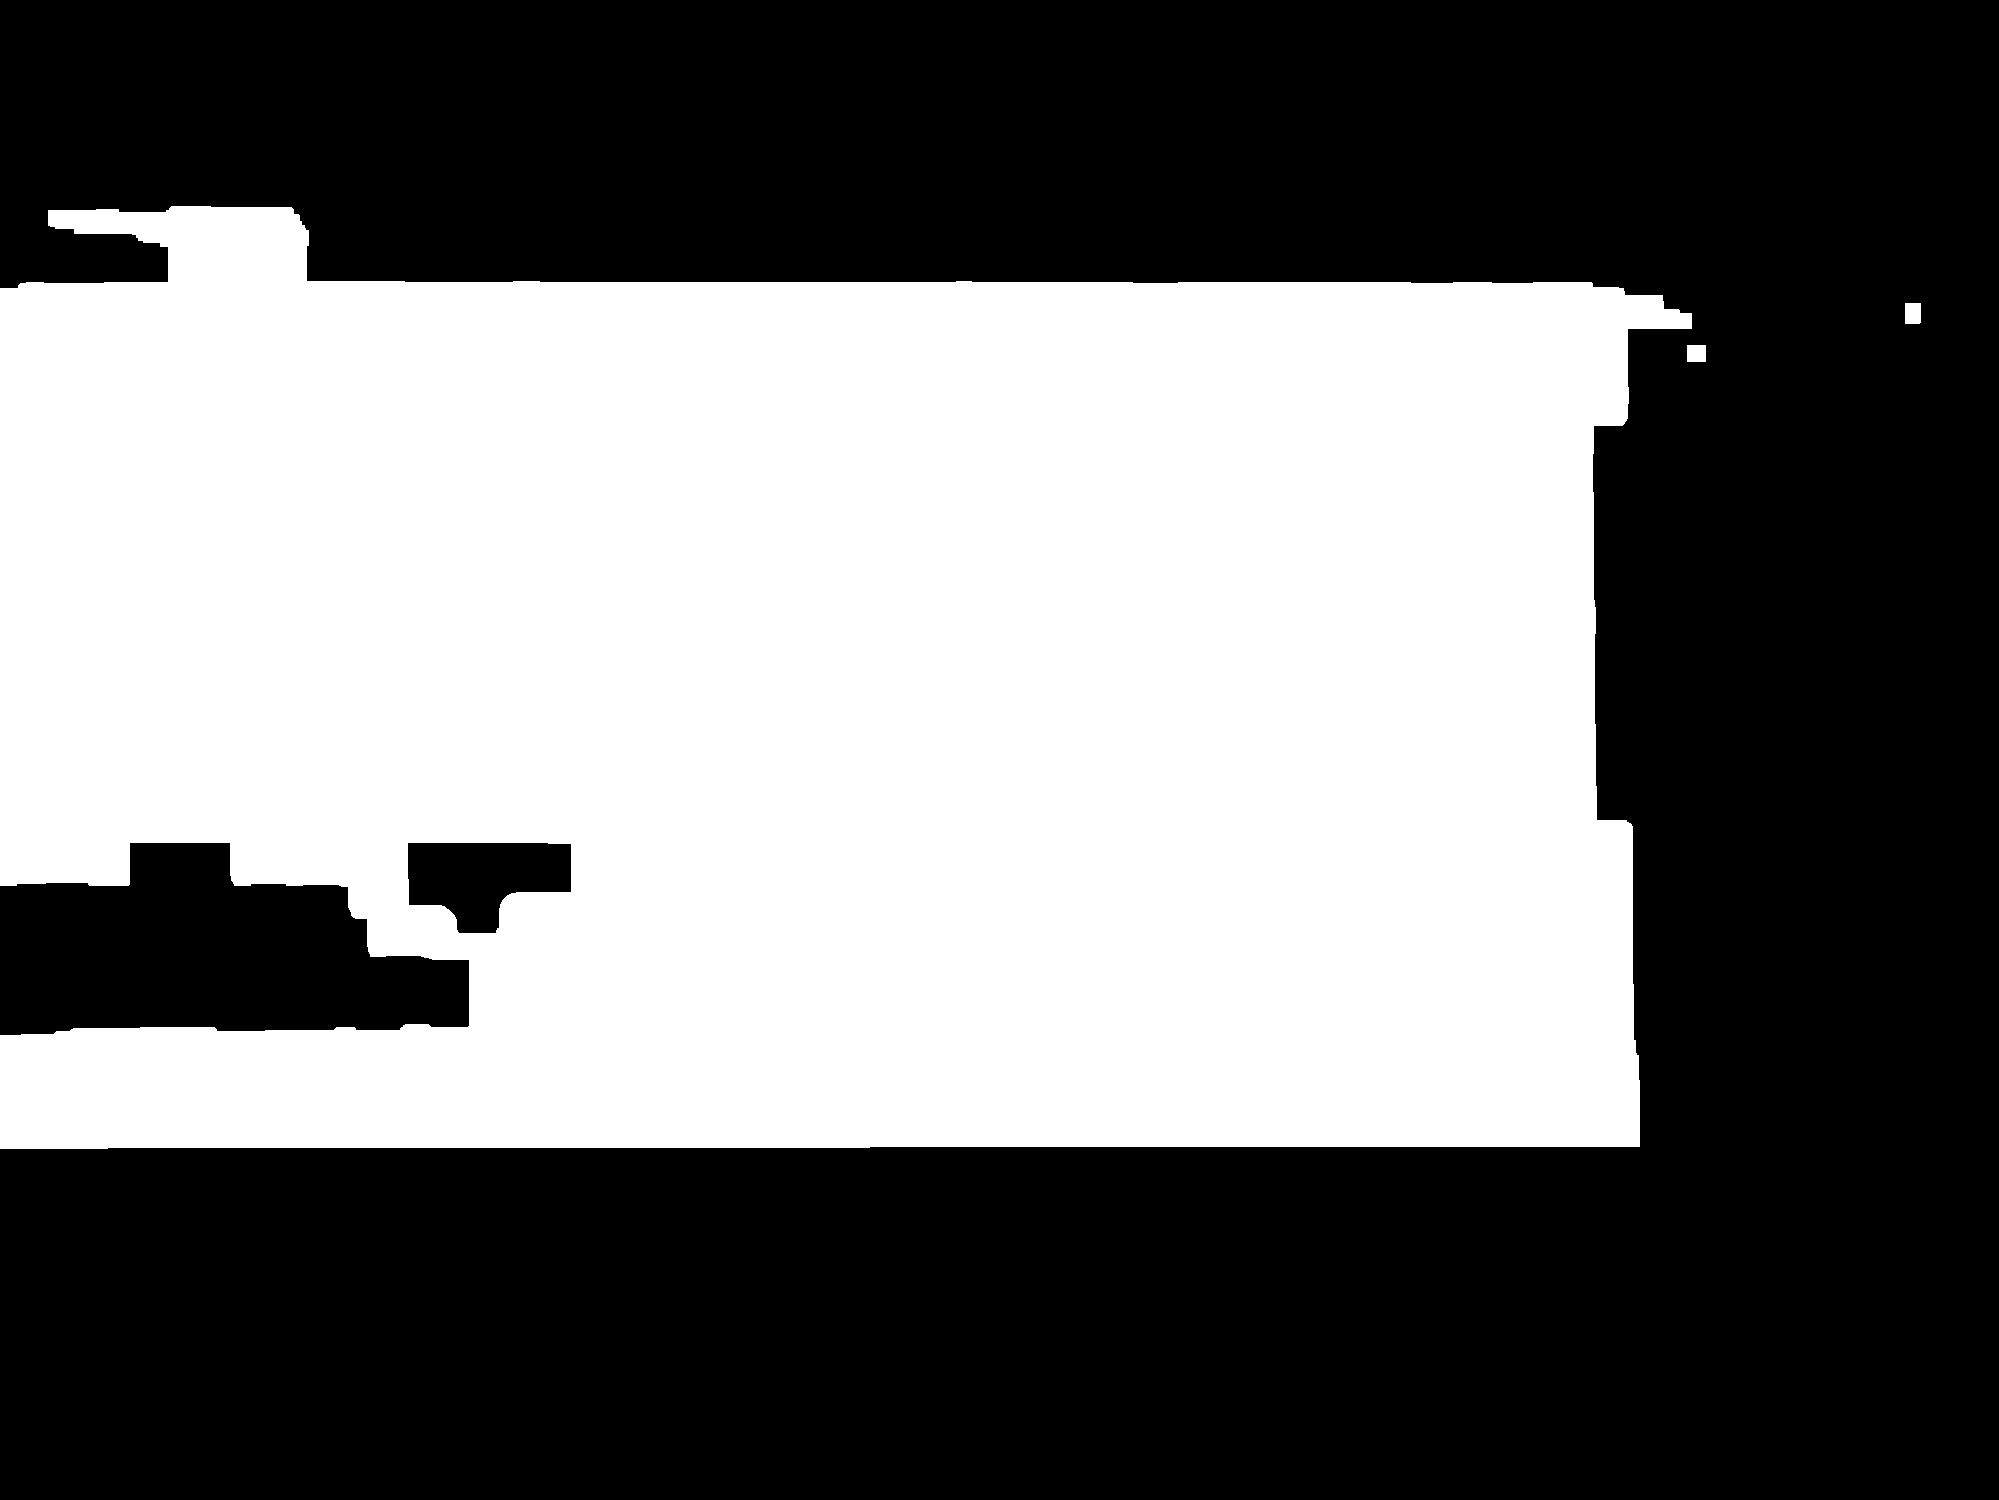
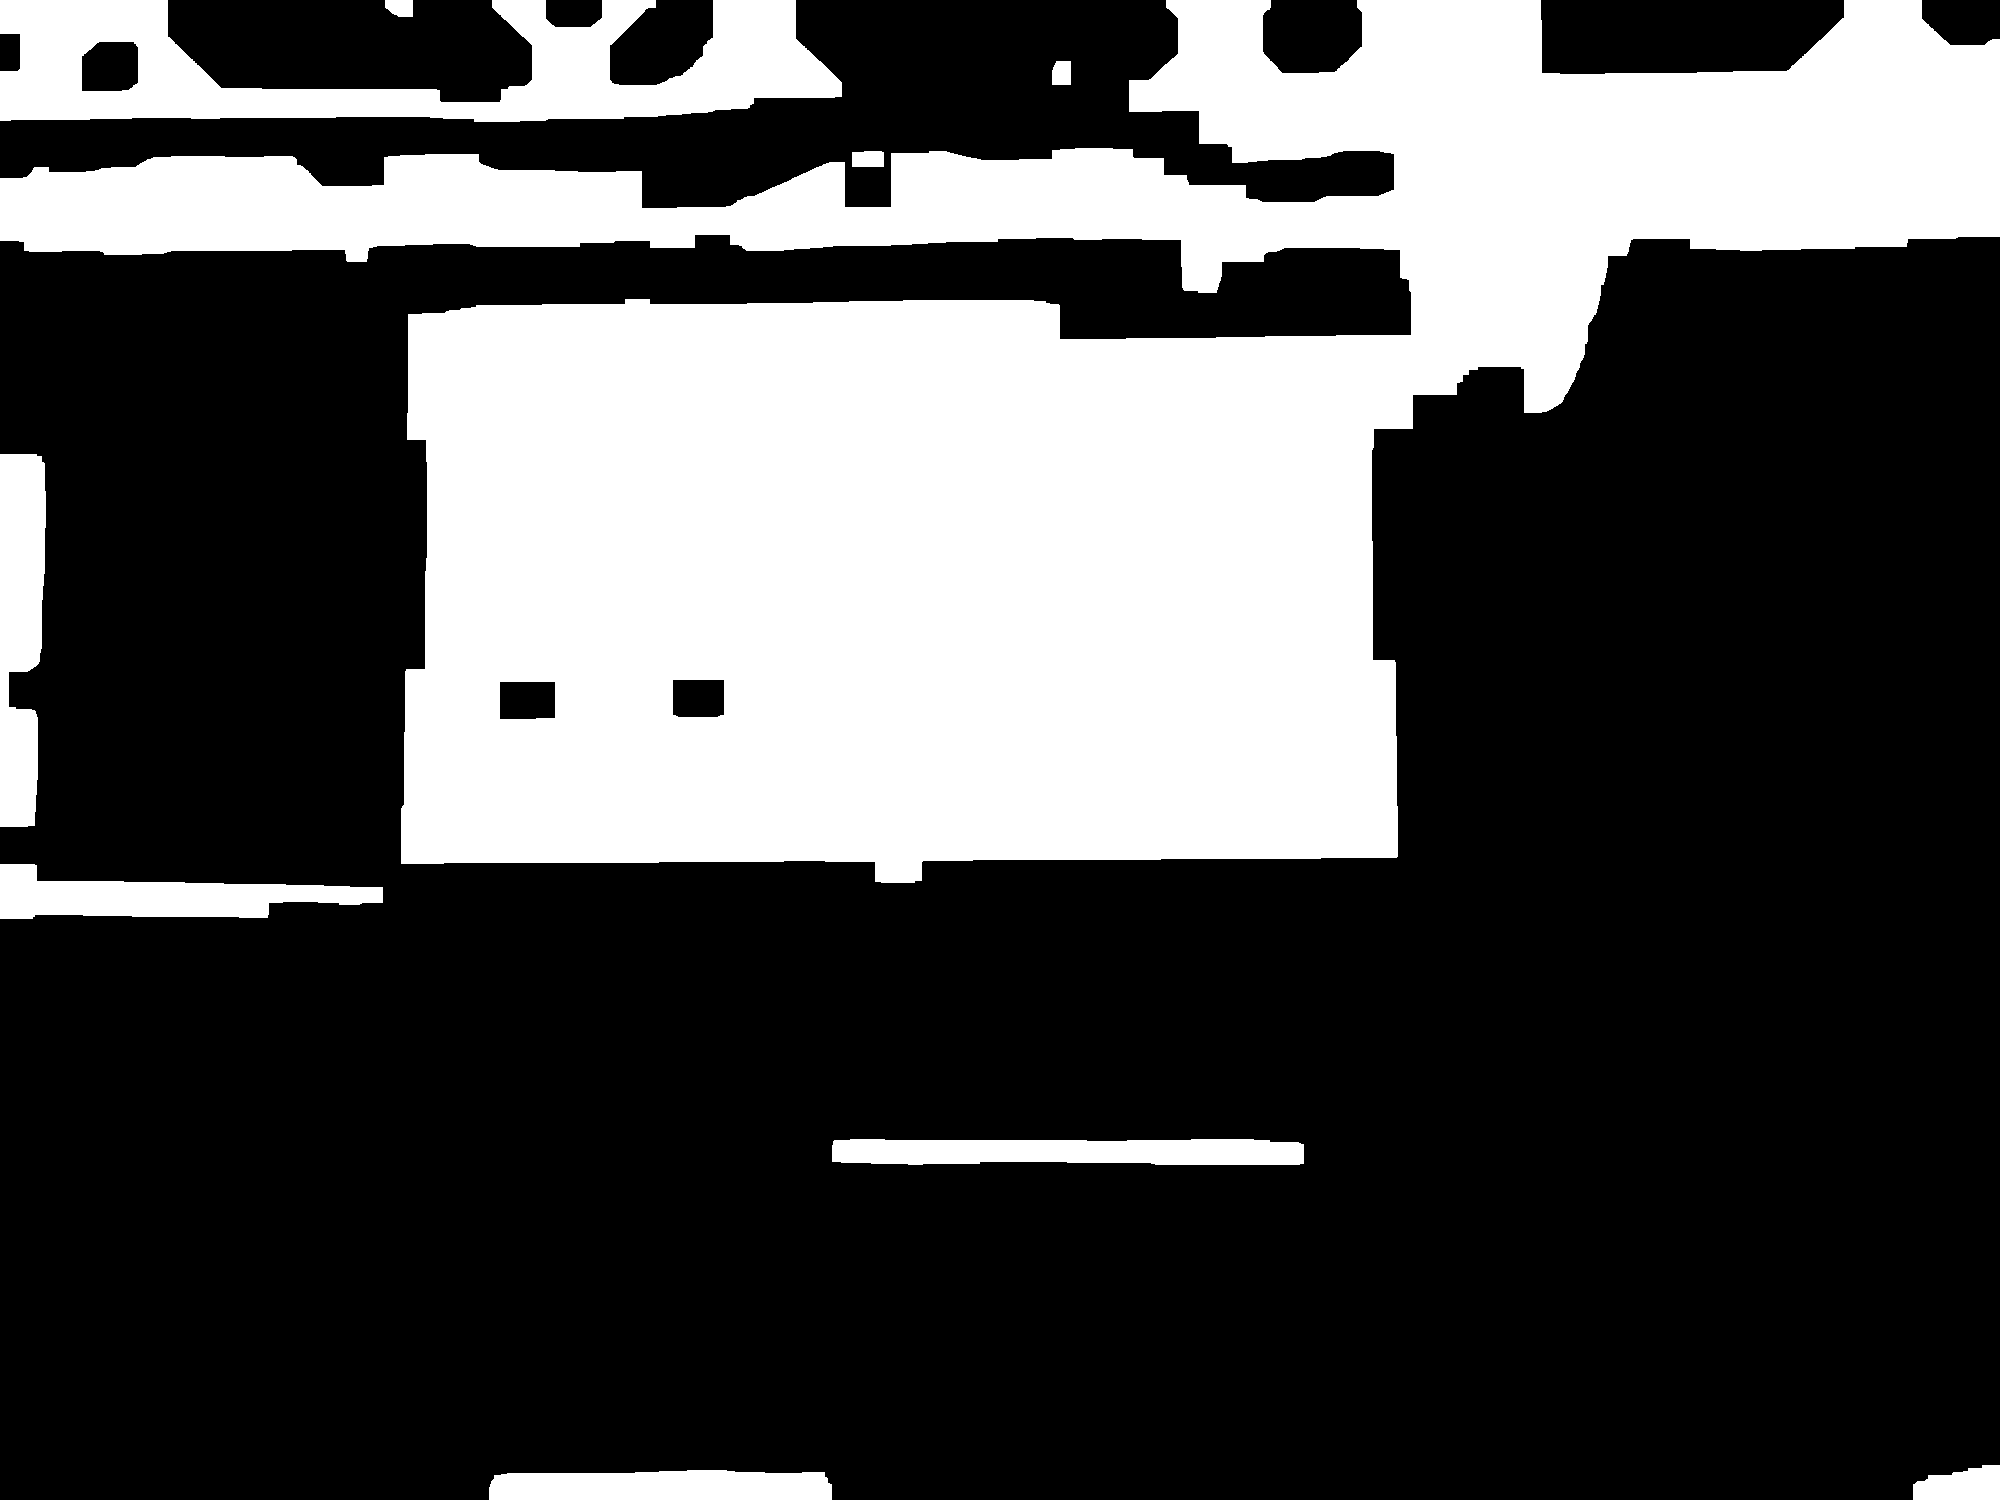
editing past game doesnt show blank image now, checkboxes only checked by default if single player

diff --git a/frontend/index.html b/frontend/index.html
@@ -146,6 +146,7 @@
           <div class="thumb-zoom-wrap" id="thumb-zoom-wrap">
             <img id="result-thumb" alt="Uploaded scoreboard" />
           </div>
+          <p class="thumb-filename" id="thumb-filename"></p>
         </div>
         <p class="status" id="queue-progress"></p>
         <div class="result-actions">
@@ -197,6 +198,13 @@
     // Used by: sanitizeText, keydown handler (frames section)
     const ALLOWED_SYMBOL = /^[X0-9/\-F]$/i;
     const ALLOWED_CHARS = /[^X0-9/\-F]/gi;
+
+    // function to check whether an image can be rendered by browser
+    const CAN_PREVIEW_LOCALLY = /^image\/(jpeg|png|webp)$/i;
+
+    function canPreviewLocally(file) {
+      return CAN_PREVIEW_LOCALLY.test(file.type);
+    }
 
     // Used by: kickOffUpload / pumpUploadQueue (upload section)
     const MAX_CONCURRENT_UPLOADS = 1; // only one upload in flight at a time
@@ -293,6 +301,7 @@
     const playerRowsEl = document.getElementById('player-rows');
     const resultThumb = document.getElementById('result-thumb');
     const thumbZoomWrap = document.getElementById('thumb-zoom-wrap');
+    const thumbFilename = document.getElementById('thumb-filename');
     const historyList = document.getElementById('history-list');
     const saveBtn = document.getElementById('save-btn');
     const discardBtn = document.getElementById('discard-btn');
@@ -919,11 +928,19 @@
       }
     }
 
+    // Only browser-natively-previewable formats get a local preview while OCR
+    // runs. Formats like HEIC/HEIF aren't renderable by <img> directly, so we
+    // skip straight to no preview rather than attempting a client-side
+    // conversion — the OCR response's preview_image replaces it once it lands.
+    function getLocalPreviewUrl(file) {
+      return canPreviewLocally(file) ? URL.createObjectURL(file) : null;
+    }
+
     async function showQueueItem(index) {
       if (index >= uploadQueue.length) {
         document.getElementById('queue-progress').textContent = '';
         resultEl.classList.remove('visible');
-        setStatus('All photos processed.');
+        setStatus('');
         uploadQueue = [];
         queueIndex = 0;
         loadHistory();
@@ -943,10 +960,24 @@
       playerRowsEl.innerHTML = '';
       playerRowsEl.classList.remove('hide-checkboxes'); // make sure checkboxes come back for multi-player queue items
       saveBtn.textContent = 'Save game';   // undo "Save changes" label left over from editing
+      discardBtn.textContent = 'Discard';  // undo "Cancel" label left over from editing
       if (resultThumb.src && resultThumb.src.startsWith('blob:')) {
         URL.revokeObjectURL(resultThumb.src);
       }
-      resultThumb.removeAttribute('src');
+      // Show the user's own photo right away instead of a blank box while OCR runs.
+      let localPreviewUrl = null;
+      try {
+        localPreviewUrl = await getLocalPreviewUrl(entry.file);
+      } catch {
+        localPreviewUrl = null;
+      }
+      if (localPreviewUrl) {
+        resultThumb.src = localPreviewUrl;
+      } else {
+        resultThumb.removeAttribute('src');
+        thumbRow.style.display = 'none';
+      }
+      thumbFilename.textContent = entry.file.name;
       resetThumbZoom();
       saveBtn.disabled = true;
       discardBtn.disabled = true;
@@ -968,7 +999,7 @@
             name: p.name || '',
             rollSymbols: parsed.rollSymbols,
             pendingCursor: null,
-            selected: true,
+            selected: data.players.length === 1, // checked by default only if theres only one player
             splitFrames: parsed.splitFrames,
           };
         });
@@ -977,17 +1008,17 @@
         renderEditableFrames();
 
         if (resultThumb.src && resultThumb.src.startsWith('blob:')) {
-          URL.revokeObjectURL(resultThumb.src);
+          URL.revokeObjectURL(resultThumb.src); // revokes the local preview blob set above
         }
         resultThumb.src = data.preview_image.startsWith('data:')
           ? dataUrlToBlobUrl(data.preview_image)
           : data.preview_image;
+        thumbRow.style.display = '';
         resultEl.classList.add('visible');
       } catch {
         if (token !== queueRequestToken) return;
         setStatus(`Could not read photo ${index + 1}: ${entry.error}`, true);
         playerRowsEl.innerHTML = '';
-        resultThumb.removeAttribute('src');
         players = [];
         pendingUpload = null;
         pendingRetry = { index };      // let the user retry this specific queue slot
@@ -1705,6 +1736,8 @@
 
 
     // HISTORY — past games list, search filter, edit/delete actions
+    const thumbRow = document.querySelector('.thumb-row');
+
     let allGames = [];
 
     function renderHistory(games) {
@@ -1716,16 +1749,16 @@
       games.forEach(g => {
         const item = document.createElement('div');
         item.className = 'history-item';
+        item.dataset.gameId = g.id;
         const cleanScore = calculateBowlingScore(stripSplitMarkers(g.frame_string));
         item.innerHTML = `
           <div class="history-main">
-          <span class="frame-string">${frameStringToHtml(g.frame_string)}</span>
-          <span class="history-score">${cleanScore}</span>
+            <span class="frame-string">${frameStringToHtml(g.frame_string)}</span>
+            <span class="history-score">${cleanScore}</span>
           </div>
           <div class="history-item-actions">
-          <time>${formatTime(g.created_at)}</time>
-          <button type="button" class="btn-edit" data-game-id="${g.id}">Edit</button>
-          <button type="button" class="btn-delete" data-game-id="${g.id}">Delete</button>
+            <time>${formatTime(g.created_at)}</time>
+            <button type="button" class="btn-delete" data-game-id="${g.id}">Delete</button>
           </div>
           `;
         historyList.appendChild(item);
@@ -1749,42 +1782,44 @@
       editedDateTimeInput.value = formatDateTimeInput(game.created_at);
       renderEditableFrames();
       resultThumb.removeAttribute('src');
+      thumbFilename.textContent = '';
+      thumbRow.style.display = 'none';
       resultEl.classList.add('visible');
       saveBtn.textContent = 'Save changes';
-      setStatus('Editing previous game');
+      discardBtn.textContent = 'Cancel';
+      setStatus('');
       document.getElementById('queue-progress').textContent = 'Editing a past game';
     }
 
     historyList.addEventListener('click', async (e) => {
-      const editButton = e.target.closest('.btn-edit');
-      if (editButton) {
-        const gameId = Number(editButton.dataset.gameId);
+      const deleteButton = e.target.closest('.btn-delete');
+      if (deleteButton) {
+        const gameId = Number(deleteButton.dataset.gameId);
         if (!gameId) return;
-        const game = allGames.find(item => item.id === gameId);
-        if (game) openGameForEditing(game);
+
+        try {
+          const res = await fetch(`${API_BASE}/api/games/${gameId}`, { method: 'DELETE', credentials: 'include' });
+          if (res.status === 401) {
+            showLoggedOut();
+            return;
+          }
+          if (!res.ok) {
+            setStatus('Could not delete that game.', true);
+            return;
+          }
+          await loadHistory();
+        } catch {
+          setStatus('Could not delete that game.', true);
+        }
         return;
       }
 
-      const deleteButton = e.target.closest('.btn-delete');
-      if (!deleteButton) return;
-
-      const gameId = Number(deleteButton.dataset.gameId);
+      const item = e.target.closest('.history-item');
+      if (!item) return;
+      const gameId = Number(item.dataset.gameId);
       if (!gameId) return;
-
-      try {
-        const res = await fetch(`${API_BASE}/api/games/${gameId}`, { method: 'DELETE', credentials: 'include' });
-        if (res.status === 401) {
-          showLoggedOut();
-          return;
-        }
-        if (!res.ok) {
-          setStatus('Could not delete that game.', true);
-          return;
-        }
-        await loadHistory();
-      } catch {
-        setStatus('Could not delete that game.', true);
-      }
+      const game = allGames.find(g => g.id === gameId);
+      if (game) openGameForEditing(game);
     });
 
     async function loadHistory() {
@@ -1835,10 +1870,13 @@
       fileInput.value = '';
       editedDateTimeInput.value = formatDateTimeInput(new Date().toISOString());
       saveBtn.textContent = 'Save game';
+      discardBtn.textContent = 'Discard';
+      thumbRow.style.display = '';
       if (resultThumb.src && resultThumb.src.startsWith('blob:')) {
         URL.revokeObjectURL(resultThumb.src);
       }
       resultThumb.removeAttribute('src');
+      thumbFilename.textContent = '';
       resetThumbZoom();
     }
 
@@ -2074,11 +2112,11 @@
         const cleanScore = calculateBowlingScore(stripSplitMarkers(g.frame_string));
         item.innerHTML = `
           <div class="history-main">
-          <span class="frame-string">${frameStringToHtml(g.frame_string)}</span>
-          <span class="history-score">${cleanScore}</span>
+            <span class="frame-string">${frameStringToHtml(g.frame_string)}</span>
+            <span class="history-score">${cleanScore}</span>
           </div>
-          <div class="history-item-actions">
-          <time>${formatTime(g.created_at)}</time>
+            <div class="history-item-actions">
+            <time>${formatTime(g.created_at)}</time>
           </div>
           `;
         playerDetailHistory.appendChild(item);

diff --git a/frontend/css/upload.css b/frontend/css/upload.css
@@ -62,3 +62,43 @@ input[type="file"] {
 .status.error {
     color: var(--danger);
 }
+
+.thumb-row {
+    margin-top: 18px;
+}
+
+.thumb-zoom-wrap {
+  position: relative;
+  width: 100%;
+  height: 420px; /* fixed - this is the "menu size" that must stay constant */
+  overflow: hidden;
+  border-radius: 10px;
+  border: 1px solid var(--panel-border);
+  background: #0d1114;
+  cursor: zoom-in;
+  touch-action: none; /* we handle pan/zoom ourselves */
+}
+.thumb-zoom-wrap.zoomed {
+  cursor: grab;
+}
+.thumb-zoom-wrap.dragging {
+  cursor: grabbing;
+}
+
+.thumb-zoom-wrap img {
+  display: block;
+  width: 100%;
+  height: 100%;
+  object-fit: contain;
+  transform-origin: 0 0;
+  user-select: none;
+  -webkit-user-drag: none;
+}
+
+.thumb-filename {
+  margin-top: 6px;
+  font-size: 0.85em;
+  color: var(--muted, #888);
+  text-align: center;
+  word-break: break-all;
+}

diff --git a/frontend/css/frames.css b/frontend/css/frames.css
@@ -240,35 +240,3 @@
     margin-top: 12px;
     min-height: 0;
 }
-
-.thumb-row {
-    margin-top: 18px;
-}
-
-.thumb-zoom-wrap {
-  position: relative;
-  width: 100%;
-  height: 420px; /* fixed - this is the "menu size" that must stay constant */
-  overflow: hidden;
-  border-radius: 10px;
-  border: 1px solid var(--panel-border);
-  background: #0d1114;
-  cursor: zoom-in;
-  touch-action: none; /* we handle pan/zoom ourselves */
-}
-.thumb-zoom-wrap.zoomed {
-  cursor: grab;
-}
-.thumb-zoom-wrap.dragging {
-  cursor: grabbing;
-}
-
-.thumb-zoom-wrap img {
-  display: block;
-  width: 100%;
-  height: 100%;
-  object-fit: contain;
-  transform-origin: 0 0;
-  user-select: none;
-  -webkit-user-drag: none;
-}

diff --git a/frontend/css/history.css b/frontend/css/history.css
@@ -31,6 +31,7 @@ section.history {
     border-radius: 10px;
     margin-bottom: 8px;
     background: var(--panel);
+    cursor: pointer;
 }
 
 .history-item img {
@@ -85,21 +86,6 @@ section.history {
     color: var(--text-muted);
     margin-right: 0;
     margin-left: 0;
-}
-
-.btn-edit {
-    border: 1px solid var(--cyan);
-    background: transparent;
-    color: var(--cyan);
-    border-radius: 999px;
-    padding: 7px 10px;
-    font-size: 12px;
-    font-weight: 600;
-    cursor: pointer;
-}
-
-.btn-edit:hover {
-    background: rgba(41, 230, 200, 0.12);
 }
 
 .btn-delete {
